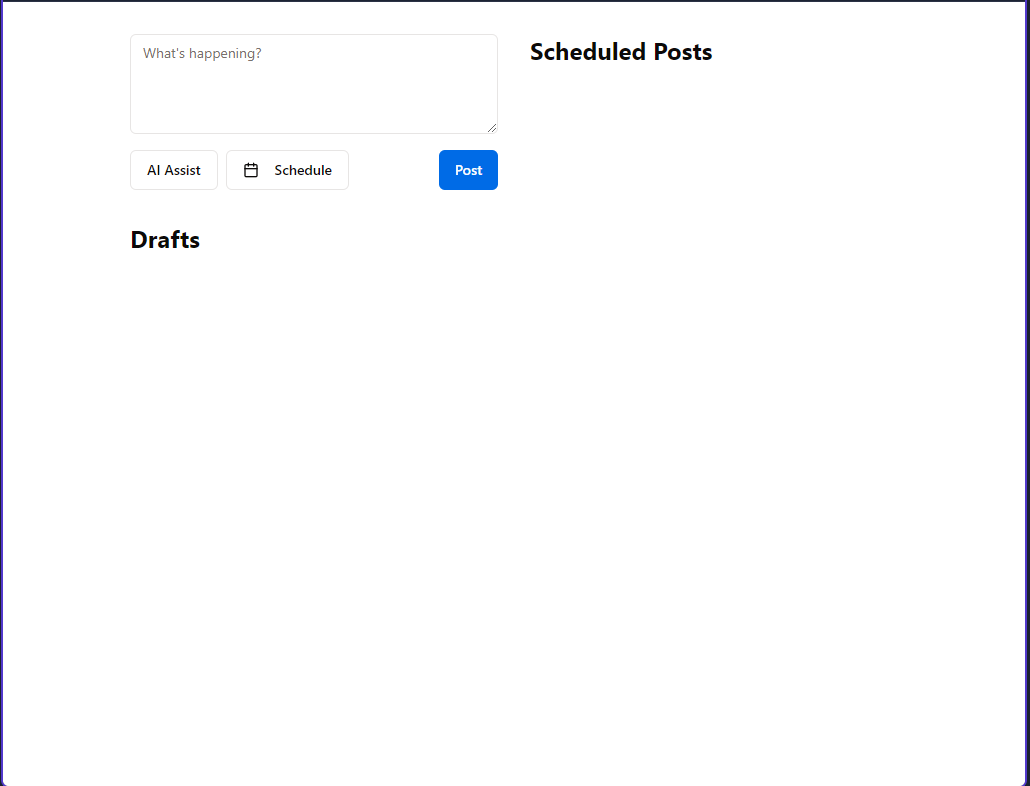
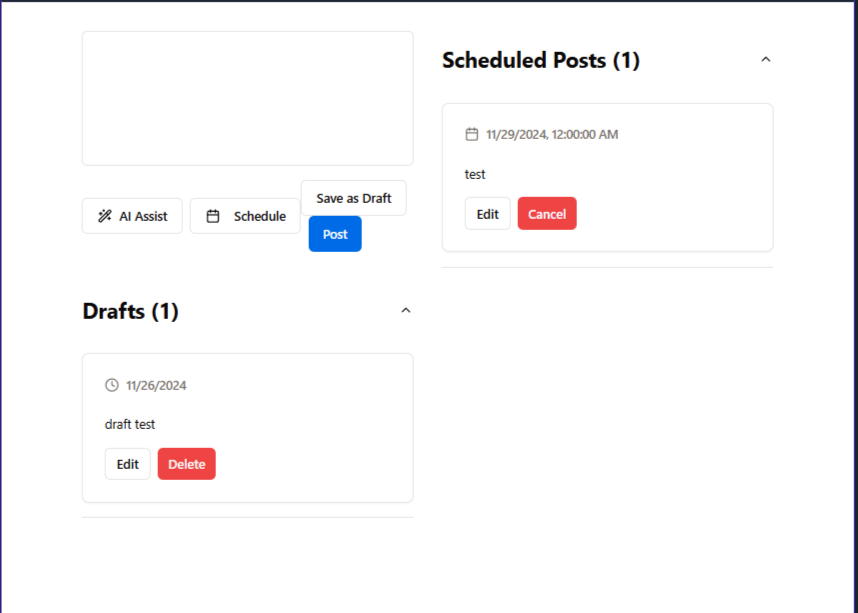
Agent query: Please test the following: 1. Is the calendar component working properly with proper date validation? 2. When scheduling, do you get an error message if either date or time is missing? 3. Are the buttons properly aligned in separate rows? 4. When you create a post or draft, do the lists

diff --git a/client/src/components/post-composer.tsx b/client/src/components/post-composer.tsx
@@ -145,7 +145,7 @@ export function PostComposer() {
           )}
         />
 
-        <div className="flex justify-between items-center">
+        <div className="space-y-4">
           <div className="flex gap-2">
             <TooltipProvider>
               <Tooltip>
@@ -168,37 +168,65 @@ export function PostComposer() {
             </TooltipProvider>
             <Popover open={showSchedule} onOpenChange={setShowSchedule}>
               <PopoverTrigger asChild>
-                <Button variant="outline" type="button">
+                <Button 
+                  variant="outline" 
+                  type="button"
+                  className={form.getValues('scheduledFor') && form.getValues('scheduledTime') ? 'bg-primary/10' : ''}
+                >
                   <Calendar className="mr-2 h-4 w-4" />
-                  Schedule
+                  {form.getValues('scheduledFor') && form.getValues('scheduledTime') 
+                    ? `Scheduled for ${new Date(form.getValues('scheduledFor')).toLocaleDateString()} ${form.getValues('scheduledTime')}`
+                    : 'Schedule'
+                  }
                 </Button>
               </PopoverTrigger>
-              <PopoverContent className="w-auto p-4 space-y-4">
-                <div className="space-y-2">
-                  <CalendarComponent
-                    mode="single"
-                    selected={form.getValues('scheduledFor')}
-                    onSelect={(date) => {
-                      form.setValue('scheduledFor', date);
-                    }}
-                  />
-                  <TimeSelect
-                    value={form.getValues('scheduledTime')}
-                    onChange={(time) => {
-                      form.setValue('scheduledTime', time);
-                    }}
-                  />
+              <PopoverContent className="w-auto p-4" align="start">
+                <div className="space-y-4">
+                  <div className="space-y-2">
+                    <CalendarComponent
+                      mode="single"
+                      selected={form.getValues('scheduledFor')}
+                      onSelect={(date) => {
+                        form.setValue('scheduledFor', date);
+                      }}
+                      disabled={(date) => date < new Date()}
+                    />
+                    <TimeSelect
+                      value={form.getValues('scheduledTime')}
+                      onChange={(time) => {
+                        form.setValue('scheduledTime', time);
+                      }}
+                    />
+                  </div>
+                  <div className="flex justify-end gap-2">
+                    <Button
+                      variant="outline"
+                      onClick={() => {
+                        form.setValue('scheduledFor', undefined);
+                        form.setValue('scheduledTime', undefined);
+                        setShowSchedule(false);
+                      }}
+                    >
+                      Clear
+                    </Button>
+                    <Button
+                      onClick={() => {
+                        if (!form.getValues('scheduledFor') || !form.getValues('scheduledTime')) {
+                          setErrorMessage('Please select both date and time for scheduling');
+                          setShowError(true);
+                          return;
+                        }
+                        setShowSchedule(false);
+                      }}
+                    >
+                      Done
+                    </Button>
+                  </div>
                 </div>
-                <Button
-                  onClick={() => setShowSchedule(false)}
-                  className="w-full"
-                >
-                  Done
-                </Button>
               </PopoverContent>
             </Popover>
           </div>
-          <div className="space-x-2">
+          <div className="flex justify-end gap-2">
             <Button
               type="button"
               variant="outline"
@@ -213,6 +241,13 @@ export function PostComposer() {
             <Button
               type="submit"
               onClick={() => {
+                const scheduledFor = form.getValues('scheduledFor');
+                const scheduledTime = form.getValues('scheduledTime');
+                if (scheduledFor && !scheduledTime || !scheduledFor && scheduledTime) {
+                  setErrorMessage('Please select both date and time for scheduling');
+                  setShowError(true);
+                  return;
+                }
                 form.setValue('isDraft', false);
               }}
               disabled={createPost.isPending}

diff --git a/client/src/lib/twitter.ts b/client/src/lib/twitter.ts
@@ -1,6 +1,8 @@
 import { useMutation, useQuery } from '@tanstack/react-query';
 import type { Post, PostFormData } from '../types';
 
+import { queryClient } from './queryClient';
+
 export const useCreatePost = () => {
   return useMutation({
     mutationFn: async (data: PostFormData) => {
@@ -25,6 +27,11 @@ export const useCreatePost = () => {
       }
       
       return response.json();
+    },
+    onSuccess: () => {
+      // Invalidate both queries to trigger a refresh
+      queryClient.invalidateQueries({ queryKey: ['drafts'] });
+      queryClient.invalidateQueries({ queryKey: ['scheduled'] });
     },
   });
 };
